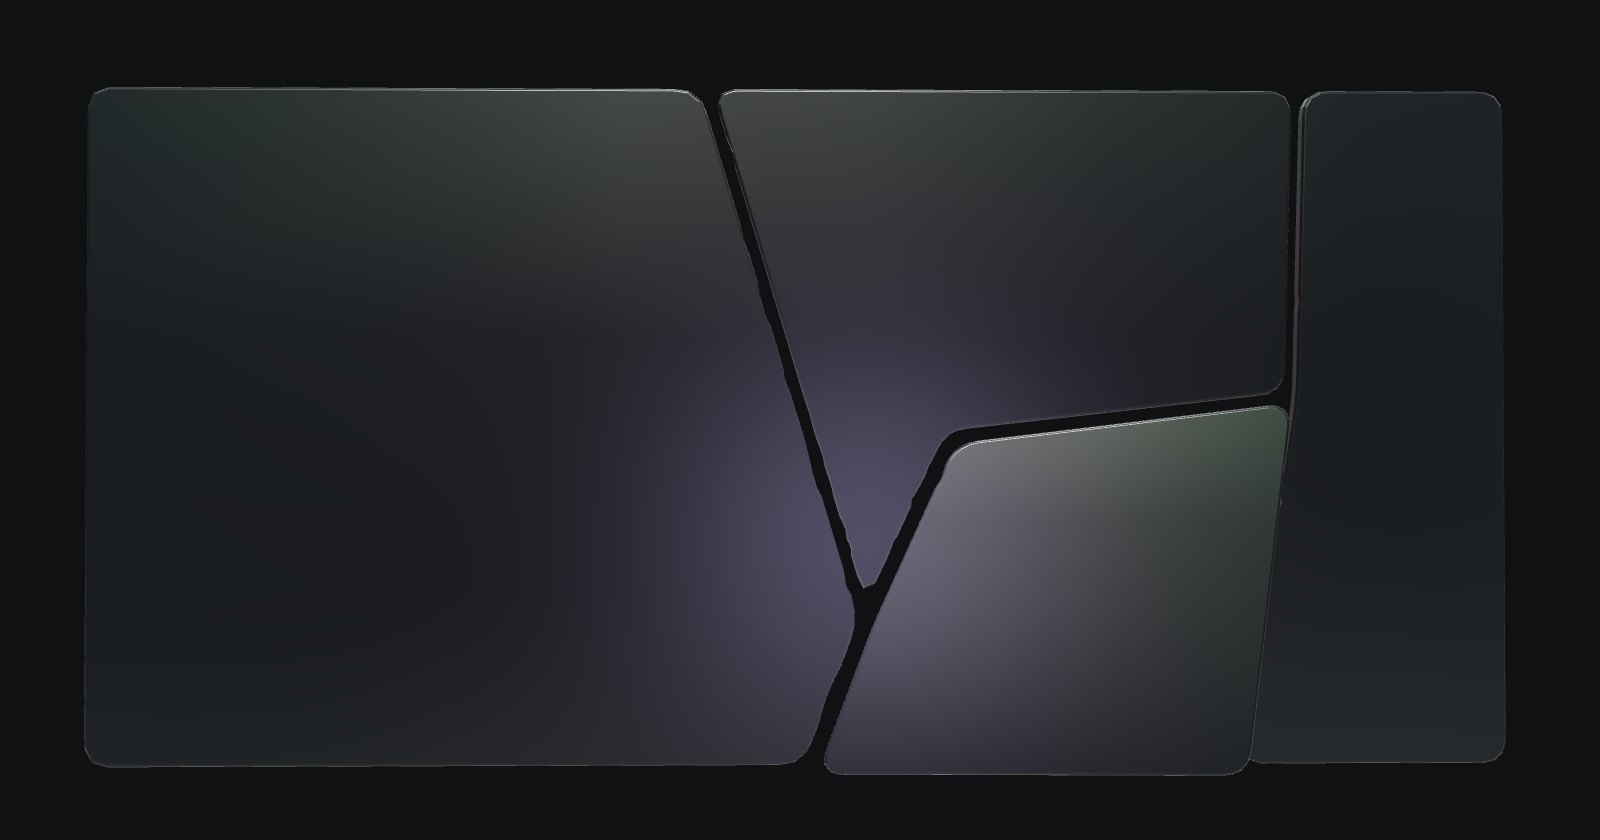
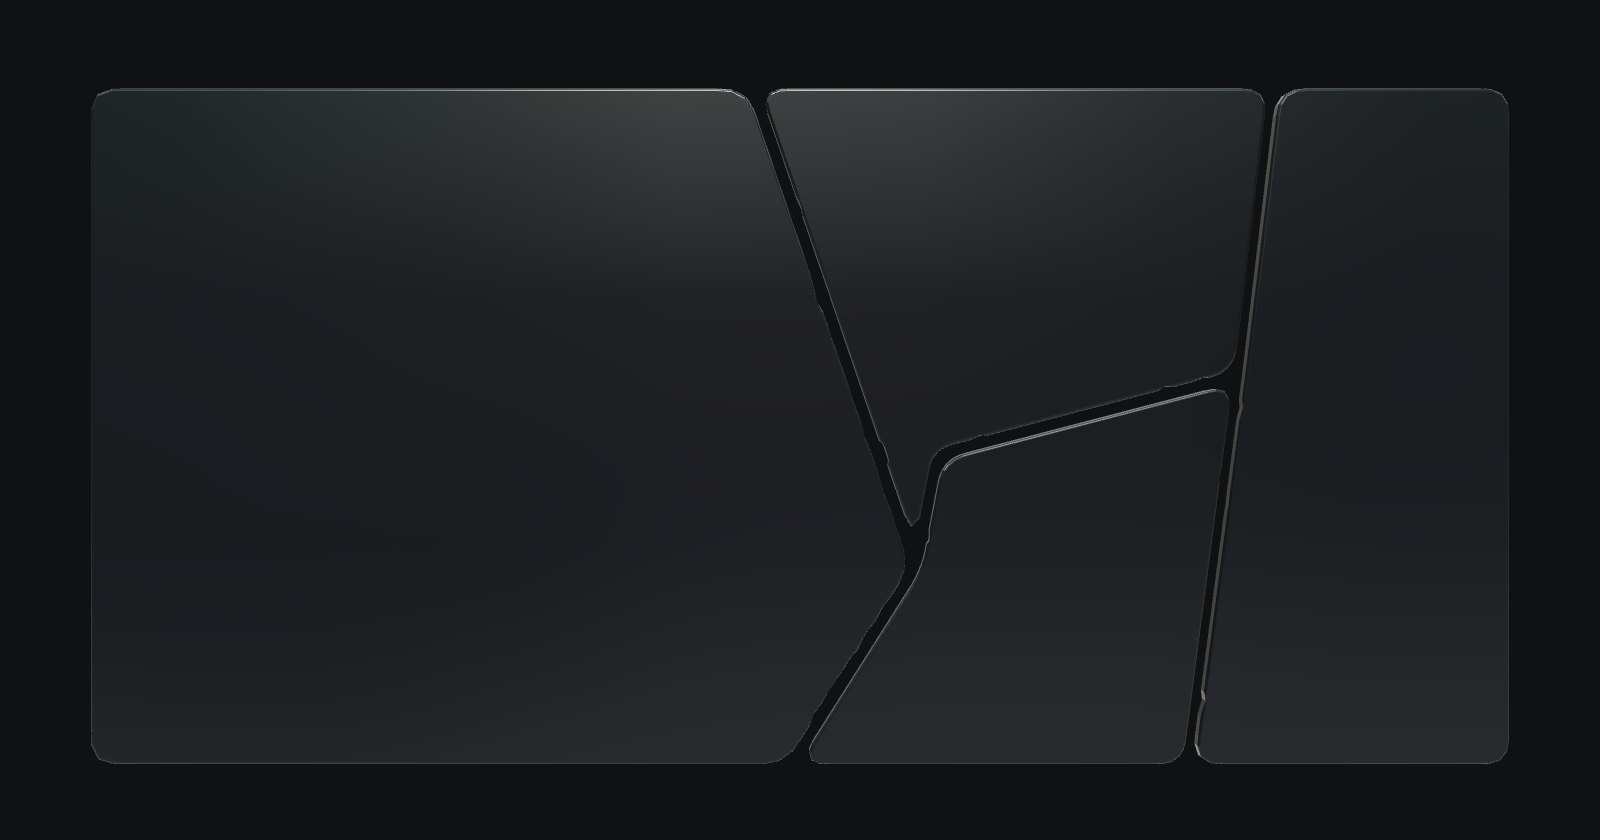
Cacos pousam sobre a posição real dos cartões no fim da transição

diff --git a/site/src/main.js b/site/src/main.js
@@ -158,14 +158,18 @@ function aoVoo(v) {
 addEventListener('scroll', aoRolar, { passive: true });
 addEventListener('resize', aoRolar);
 
-// Onde cada cartão do carrossel fica no fim da rolagem da entrada (destino dos cacos)
+// Onde cada cartão do carrossel fica (destino dos cacos). No meio da rolagem vale a posição
+// do fim; perto do fim, a posição real na tela, para os cacos pousarem exatamente sobre os
+// cartões em HTML mesmo se a rolagem parar um pouco antes do fim.
 function medirCartoes() {
   const fim = entrada.offsetTop + entrada.offsetHeight - innerHeight;
+  const t = Math.min(1, Math.max(0, (scrollY / Math.max(1, fim) - 0.8) / 0.2));
+  const real = t * t * (3 - 2 * t);
   return [...document.querySelectorAll('.pastas li')].map((li) => {
     const r = li.getBoundingClientRect();
     const escala = Number(li.style.getPropertyValue('--escala') || 1);
     return {
-      x: r.left, y: r.top + scrollY - fim, w: r.width, h: r.height,
+      x: r.left, y: r.top + (scrollY - fim) * (1 - real), w: r.width, h: r.height,
       d: Number(li.style.getPropertyValue('--d') || 0),
       raio: parseFloat(getComputedStyle(li.firstElementChild).borderTopLeftRadius) * escala,
       slug: li.querySelector('.pasta').dataset.slug,
